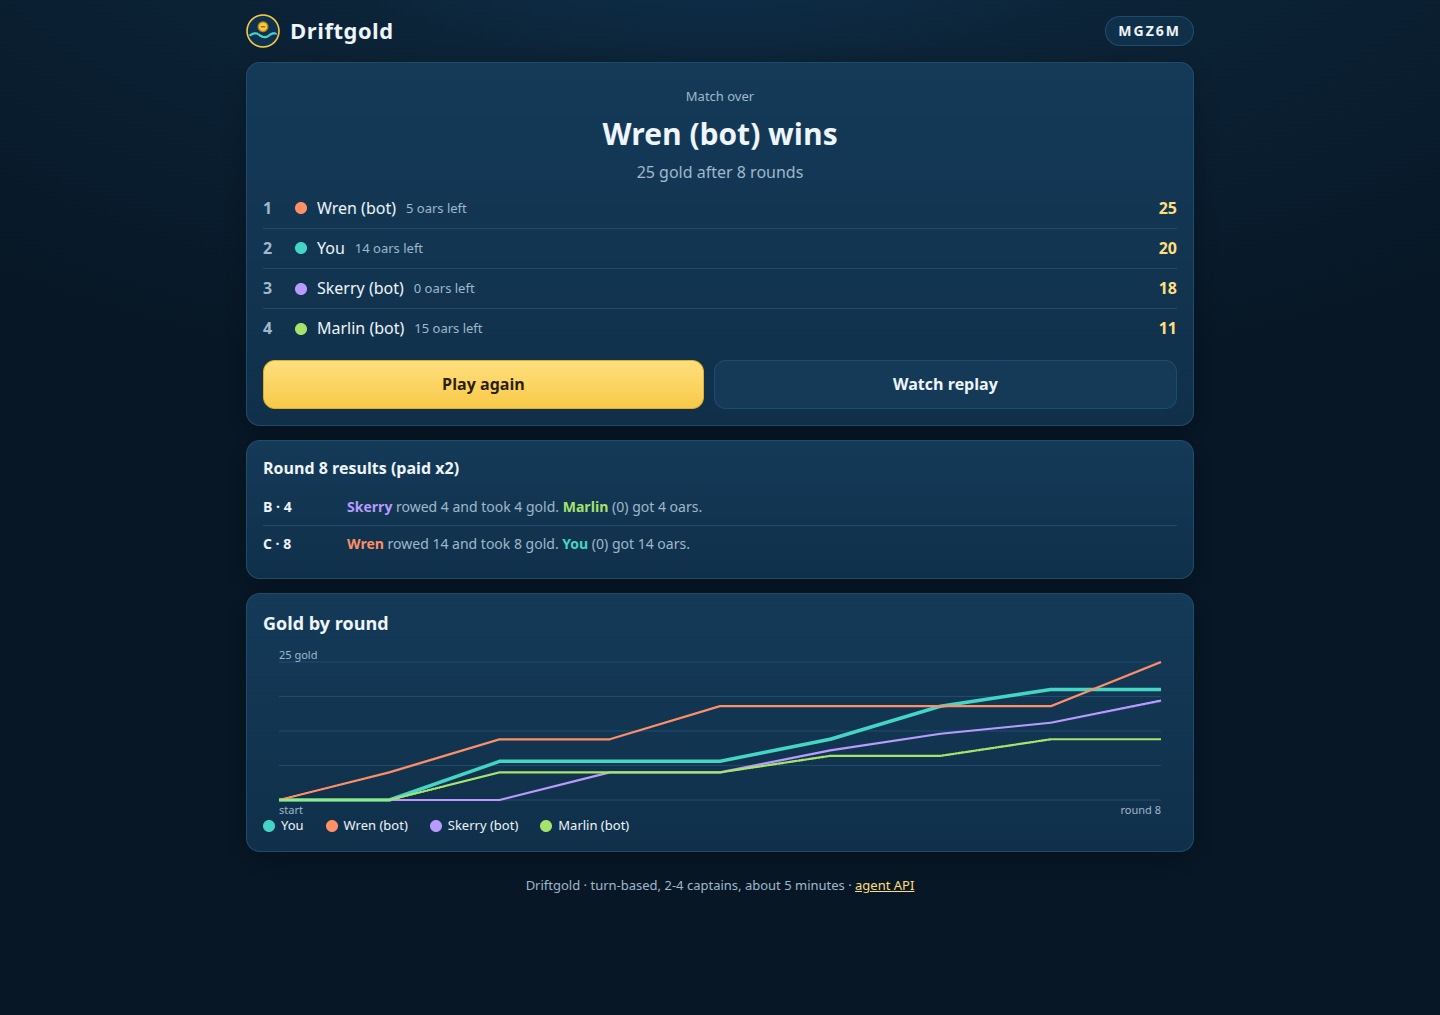
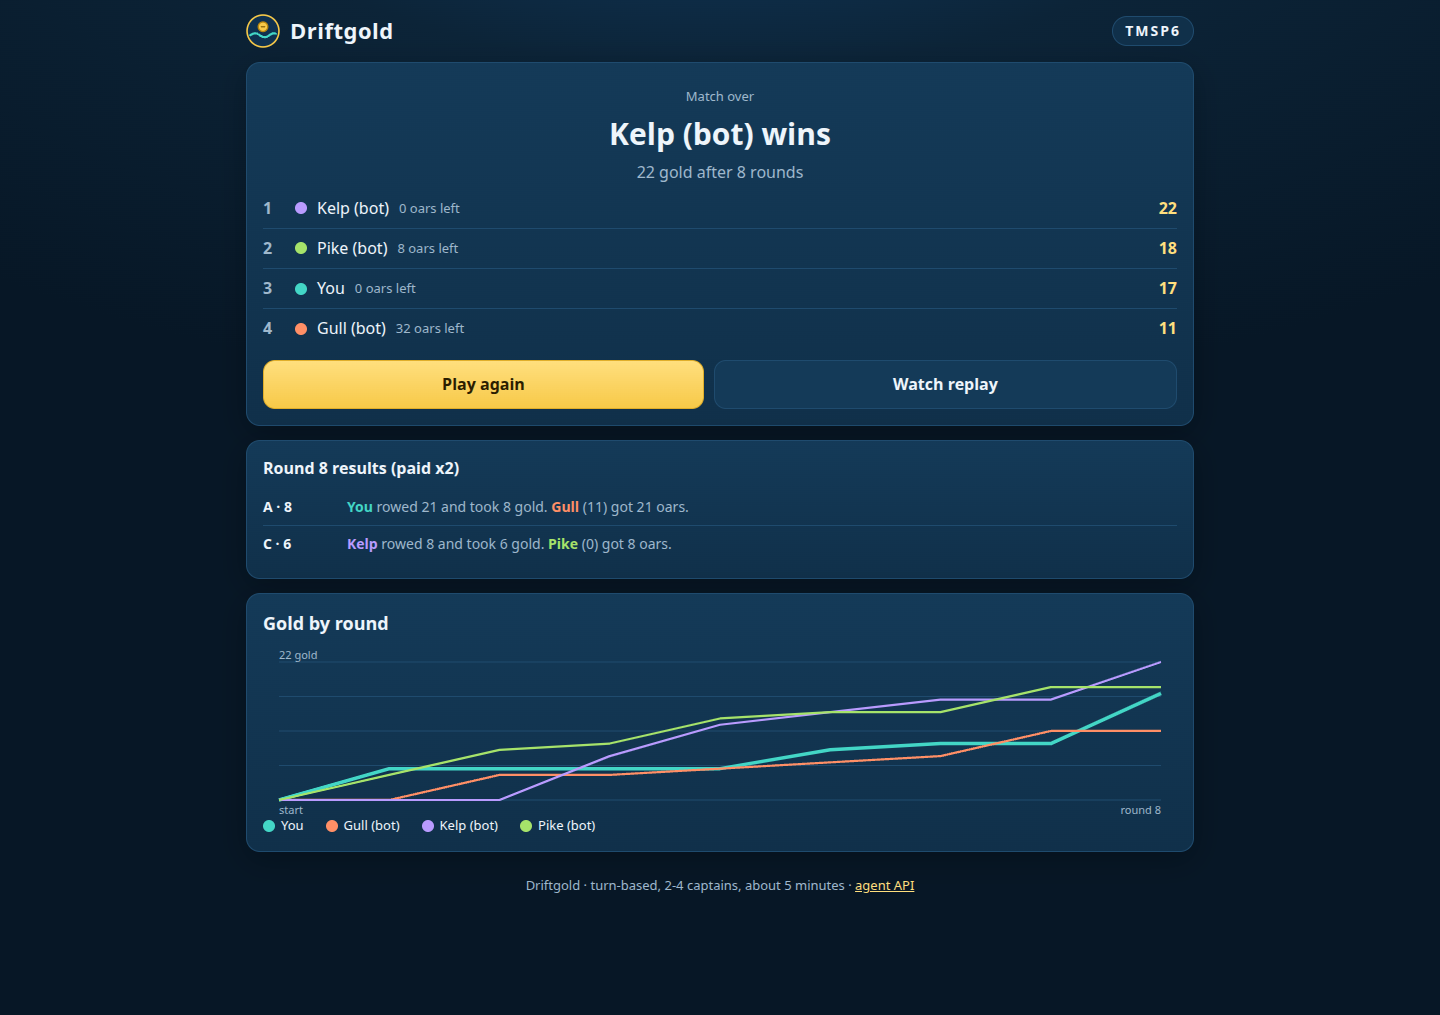
House bot: predict other house bots one level down, row everything in the final round
Also: reveal highlights, round deltas, in-game rules, replay autoplay, streamed
body cap, page security headers, final balance numbers.

diff --git a/src/bots.js b/src/bots.js
@@ -128,25 +128,17 @@ function rivalModel(g, o) {
   return { rank, ratio };
 }
 
-export function reader(g, seat, r, opts = {}) {
-  const temp = opts.temp ?? 0.35;
-  const samples = opts.samples ?? 48;
+// Score every sensible (cove, oars) option for `seat`. sampleRival(o) draws one likely move for rival o.
+function scoreOptions(g, seat, r, opts, sampleRival) {
+  const samples = opts.samples ?? 32;
   const n = g.cfg.players;
   const v = values(g);
   const left = (g.cfg.rounds - g.round) / g.cfg.rounds; // share of the match still to play after this round
   const oarWorth = (opts.oarWorth ?? 1) * left;
-  const order = v.map((_, i) => i).sort((a, b) => v[b] - v[a] || (r() < 0.5 ? -1 : 1));
-  const models = [];
-  for (let o = 0; o < n; o++) models.push(o === seat ? null : rivalModel(g, o));
   const scen = [];
   for (let k = 0; k < samples; k++) {
     const sc = [];
-    for (let o = 0; o < n; o++) {
-      if (o === seat) continue;
-      const site = order[weightedPick(models[o].rank, r)];
-      const bid = clampBid(g, o, RATIOS[weightedPick(models[o].ratio, r)] * v[site]);
-      sc.push({ seat: o, site, bid, gold: g.gold[o] });
-    }
+    for (let o = 0; o < n; o++) if (o !== seat) { const m = sampleRival(o); sc.push({ seat: o, site: m.site, bid: m.bid, gold: g.gold[o] }); }
     scen.push(sc);
   }
   const worth = (out, s) => out.gold.get(s) + oarWorth * out.oars.get(s);
@@ -159,10 +151,14 @@ export function reader(g, seat, r, opts = {}) {
     }
     return { bySite, total: bySite.reduce((a, b) => a + b, 0) };
   });
-  const maxBid = Math.min(g.oars[seat], Math.max(...v) * 2 + 2);
+  // Only 0 and the bids that tie or just beat a sampled rival bid can be best: between those points a
+  // bigger bid changes no outcome and only hands over more oars. (Plus all-in, which matters last round.)
   const cands = [];
   for (let site = 0; site < v.length; site++) {
-    for (let bid = 0; bid <= maxBid; bid++) {
+    const pts = new Set([0, g.oars[seat]]);
+    for (const sc of scen) for (const x of sc) if (x.site === site) { pts.add(x.bid); pts.add(x.bid + 1); }
+    for (const bid of pts) {
+      if (bid > g.oars[seat]) continue;
       let total = 0;
       scen.forEach((sc, k) => {
         const ent = sc.filter((x) => x.site === site);
@@ -170,13 +166,52 @@ export function reader(g, seat, r, opts = {}) {
         let rivalsHere = 0;
         for (const x of ent) rivalsHere += worth(o, x.seat);
         const rivalsAll = base[k].total - base[k].bySite[site] + rivalsHere;
+        // judged relative to the table: my gain minus the average rival gain this round
         total += worth(o, seat) - rivalsAll / (n - 1);
       });
-      cands.push({ site, bid, u: total / samples });
+      // in the last round oars are worth nothing afterwards: among equal options, row more
+      cands.push({ site, bid, u: total / samples + (left === 0 ? 1e-3 * bid : 0) });
     }
   }
+  return cands;
+}
+
+function softPick(cands, temp, r) {
   const maxU = Math.max(...cands.map((c) => c.u));
-  const pick = cands[weightedPick(cands.map((c) => Math.exp((c.u - maxU) / temp)), r)];
+  return cands[weightedPick(cands.map((c) => Math.exp((c.u - maxU) / temp)), r)];
+}
+
+// opts: temp, samples, oarWorth, botSeats (seats known to run this same algorithm: public, since seat
+// kinds are public and the code is open). For those rivals the Reader predicts their move by running
+// their decision one level down instead of extrapolating their history, so bots do not all pile onto
+// the same cove.
+export function reader(g, seat, r, opts = {}) {
+  const temp = opts.temp ?? 0.35;
+  const n = g.cfg.players;
+  const v = values(g);
+  const order = v.map((_, i) => i).sort((a, b) => v[b] - v[a] || (r() < 0.5 ? -1 : 1));
+  const models = [];
+  for (let o = 0; o < n; o++) models.push(rivalModel(g, o));
+  const last = g.round === g.cfg.rounds;
+  const fromHistory = (o) => {
+    const site = order[weightedPick(models[o].rank, r)];
+    // in the last round, expect half of rivals to throw in every oar they have
+    if (last && r() < 0.5) return { site, bid: g.oars[o] };
+    return { site, bid: clampBid(g, o, RATIOS[weightedPick(models[o].ratio, r)] * v[site]) };
+  };
+  let sampleRival = fromHistory;
+  const bots = (opts.botSeats || []).filter((o) => o !== seat);
+  if (bots.length && opts.level2 !== false) {
+    const predicted = {};
+    for (const o of bots) {
+      const c = scoreOptions(g, o, r, { ...opts, samples: opts.level2Samples ?? 16 }, fromHistory);
+      const maxU = Math.max(...c.map((x) => x.u));
+      predicted[o] = { c, w: c.map((x) => Math.exp((x.u - maxU) / temp)) };
+    }
+    const mix = opts.level2Mix ?? 0.7; // share of samples that use the one-level-down prediction
+    sampleRival = (o) => (predicted[o] && r() < mix ? predicted[o].c[weightedPick(predicted[o].w, r)] : fromHistory(o));
+  }
+  const pick = softPick(scoreOptions(g, seat, r, opts, sampleRival), temp, r);
   return { site: pick.site, bid: pick.bid };
 }
 
@@ -198,9 +233,16 @@ export const POLICIES = { bully, dodger, shark, fair, steady, topper, raider, al
 // House bot for empty seats: the Reader, with a per-seat temperament so a table of bots is not three
 // copies of one player. Each temperament mixes in one simple style some of the time.
 const TEMPERAMENTS = [fair, shark, bully, dodger];
-export function houseBot(g, seat, r) {
+export function houseBot(g, seat, r, ctx = {}) {
   const style = TEMPERAMENTS[seat % TEMPERAMENTS.length];
-  if (g.round > 1 && r() < 0.1) return style(g, seat, r);
-  return reader(g, seat, r, { temp: 0.35 + 0.1 * (seat % 3), oarWorth: 1, samples: 40 });
+  if (g.round === g.cfg.rounds) {
+    // last round: oars are worth nothing afterwards, so choose the cove and row everything
+    const m = reader(g, seat, r, { temp: 0.35, samples: ctx.samples ?? 24, level2Samples: ctx.level2Samples ?? 10, botSeats: ctx.botSeats, level2Mix: ctx.level2Mix ?? 0.7 });
+    return { site: m.site, bid: g.oars[seat] };
+  }
+  if (g.round > 1 && r() < (ctx.mix ?? 0.1)) return style(g, seat, r);
+  // round 1 has no history to read, so a light search is as good and keeps a cold start cheap
+  if (g.round === 1) return reader(g, seat, r, { temp: 0.6, samples: 12, level2: false });
+  return reader(g, seat, r, { temp: (ctx.temp ?? 0.35) + 0.1 * (seat % 3), oarWorth: ctx.oarWorth ?? 1, samples: ctx.samples ?? 24, level2Samples: ctx.level2Samples ?? 10, botSeats: ctx.botSeats, level2: ctx.level2, level2Mix: ctx.level2Mix ?? 0.7 });
 }
 POLICIES.house = houseBot;

diff --git a/public/app.js b/public/app.js
@@ -102,6 +102,7 @@
     $("codePill").classList.add("hidden");
     show("vHome");
     $("rulesText").textContent = RULES;
+    $("rulesText2").textContent = RULES;
     const nm = store.get("dg:name");
     if (nm && !$("nameIn").value) $("nameIn").value = nm;
     $("homeErr").textContent = msg || "";
@@ -201,26 +202,30 @@
   };
 
   // ---------- game ----------
-  function renderCaps(el, caps, gold, st, oars) {
+  function renderCaps(el, caps, gold, st, oars, prev, pulse) {
     clear(el);
     const max = Math.max(1, ...gold);
     const lead = Math.max(...gold);
     const soleLead = gold.filter((x) => x === lead).length === 1;
     caps.forEach((c, i) => {
       const status = st ? (c.moved ? "ready" : "choosing") : c.kind;
-      el.append(h("div", { class: "cap" + (i === S.seat ? " you" : "") },
+      const dG = prev ? prev.goldAfter[i] - prev.goldBefore[i] : 0;
+      const dO = prev ? prev.oarsAfter[i] - prev.oarsBefore[i] : 0;
+      const oarTxt = `${oars[i]} oar${oars[i] === 1 ? "" : "s"}${dO ? ` (${dO > 0 ? "+" : ""}${dO})` : ""}`;
+      el.append(h("div", { class: "cap" + (i === S.seat ? " you" : "") + (pulse && (dG || dO) ? " pulse" : "") },
         h("span", { class: "dot", style: `background:${COLORS[i]}` }),
         h("div", { class: "info grow" },
           h("span", { class: "nm" }, (i === S.seat ? "You" : (c.name || "").replace(/ \(bot\)$/, "")) + (soleLead && gold[i] === lead ? " ★" : "")),
-          h("span", { class: "st" }, `${oars[i]} oar${oars[i] === 1 ? "" : "s"} · ${c.kind === "bot" ? "bot" : ""}${c.kind === "bot" && st ? ", " : ""}${c.kind === "bot" && !st ? "" : status}`),
+          h("span", { class: "st" }, `${oarTxt} · ${c.kind === "bot" ? "bot" : status}`),
           h("div", { class: "bar" }, h("i", { style: `width:${Math.round((100 * gold[i]) / max)}%;background:${COLORS[i]}` }))),
-        h("span", { class: "gd" }, h("span", { class: "coin sm" }), gold[i])));
+        h("span", { class: "gd" }, h("span", { class: "coin sm" }), gold[i], dG ? h("sup", { class: "delta" }, `+${dG}`) : null)));
     });
   }
 
   function renderGame(st) {
     show("vGame");
     const prev = st.previous;
+    const fresh = st.round !== S.seenRound;
     if (st.round !== S.seenRound) {
       if (S.seenRound !== -1 && prev) announce(prev, st);
       S.seenRound = st.round;
@@ -229,7 +234,7 @@
     }
     $("roundLbl").textContent = `Round ${st.round}/${st.rounds}`;
     $("dblBadge").classList.toggle("hidden", !st.finalRound);
-    renderCaps($("caps"), st.captains, st.captains.map((c) => c.gold), st, st.captains.map((c) => c.oars));
+    renderCaps($("caps"), st.captains, st.captains.map((c) => c.gold), st, st.captains.map((c) => c.oars), prev, fresh && S.seenRound !== 1);
     const player = !!st.you;
     const waiting = st.captains.filter((c) => !c.moved).length;
     const p = clear($("prompt"));
@@ -246,7 +251,8 @@
       if (pr) note = pr.winner === null ? `${pr.captains.length ? "tied, " : ""}tide +${tide === null ? "?" : tide}` : "taken, restarted";
       const visitors = pr ? pr.captains : [];
       const sel = S.sel === c.cove;
-      cv.append(h("button", { class: "cove" + (sel ? " sel" : "") + (player ? "" : " disabled"), "aria-pressed": sel ? "true" : "false", onclick: () => pickCove(c.cove) },
+      const won = pr && pr.winner !== null && fresh && S.seenRound !== 1;
+      cv.append(h("button", { class: "cove" + (sel ? " sel" : "") + (player ? "" : " disabled") + (won ? " flash" : ""), style: won ? `--wc:${COLORS[pr.winner]}` : null, "aria-pressed": sel ? "true" : "false", onclick: () => pickCove(c.cove) },
         h("div", { class: "lbl" }, coveName(c.cove)),
         h("div", { class: "amt" }, h("span", { class: "coin" }), c.payout, c.payout !== c.gold ? h("span", { class: "x2" }, `(${c.gold} x2)`) : null),
         h("div", { class: "visitors", title: "came here last round" }, visitors.map((s) => h("span", { class: "dot", style: `background:${COLORS[s]}` }))),
@@ -432,7 +438,7 @@
     $("rLbl").textContent = `Round ${r.round} of ${log.rounds.length}${r.double ? " (x2)" : ""}`;
     $("rPrev").disabled = S.rIdx === 0;
     $("rNext").disabled = S.rIdx === log.rounds.length - 1;
-    renderCaps($("rCaps"), caps, r.goldAfter, null, r.oarsAfter);
+    renderCaps($("rCaps"), caps, r.goldAfter, null, r.oarsAfter, r, false);
     $("rCapsLbl").textContent = `Gold and oars after round ${r.round}. Coves show what they paid; under each: who came and how many oars they rowed.`;
     const cv = clear($("rCoves"));
     cv.className = `coves n${r.coves.length}`;
@@ -451,9 +457,17 @@
       box.append(h("p", null, h("b", null, w.length > 1 ? "Shared win: " : "Winner: "), ...joinNames(w, (s) => capName(caps, s)), ` with ${log.final.gold[w[0]]} gold.`));
     }
   }
-  $("rPrev").onclick = () => { if (S.rIdx > 0) { S.rIdx--; renderReplay(); } };
-  $("rNext").onclick = () => { if (S.rIdx < S.log.rounds.length - 1) { S.rIdx++; renderReplay(); } };
-  $("rBack").onclick = () => { history.pushState(null, "", `/?m=${S.code}`); openMatch(S.code); };
+  let autoT = null;
+  function stopAuto() { clearInterval(autoT); autoT = null; $("rPlay").textContent = "Play"; }
+  $("rPlay").onclick = () => {
+    if (autoT) return stopAuto();
+    if (S.rIdx >= S.log.rounds.length - 1) { S.rIdx = 0; renderReplay(); }
+    $("rPlay").textContent = "Pause";
+    autoT = setInterval(() => { if (S.rIdx < S.log.rounds.length - 1) { S.rIdx++; renderReplay(); } else stopAuto(); }, 1800);
+  };
+  $("rPrev").onclick = () => { stopAuto(); if (S.rIdx > 0) { S.rIdx--; renderReplay(); } };
+  $("rNext").onclick = () => { stopAuto(); if (S.rIdx < S.log.rounds.length - 1) { S.rIdx++; renderReplay(); } };
+  $("rBack").onclick = () => { stopAuto(); history.pushState(null, "", `/?m=${S.code}`); openMatch(S.code); };
   $("logBtn").onclick = () => {
     if (!S.st || !S.st.previous) { toast("The log fills in after round 1.", 2000); return; }
     history.pushState(null, "", `/?replay=${S.code}`);

diff --git a/src/match.js b/src/match.js
@@ -105,13 +105,15 @@ export class Match {
   }
 
   async join({ name, kind }) {
+    // hash first: nothing below may await before the seat is claimed, or two joins could take one seat
+    const token = newToken();
+    const tokenHash = await sha256(token);
     const m = this.m;
     if (m.phase !== "lobby") return err(409, "not_joinable", `match is ${m.phase === "play" ? "already running" : m.phase}`);
     const seat = m.seats.findIndex((s) => s === null);
     if (seat < 0) return err(409, "full", "all seats are taken");
-    const token = newToken();
     const k = kind === "agent" ? "agent" : "human";
-    m.seats[seat] = { name: cleanName(name, `Captain ${seat + 1}`), kind: k, tokenHash: await sha256(token), joinedAt: Date.now() };
+    m.seats[seat] = { name: cleanName(name, `Captain ${seat + 1}`), kind: k, tokenHash, joinedAt: Date.now() };
     if (m.seats.every((s) => s !== null)) this.begin();
     await this.save();
     if (m.phase === "play") await this.ctx.storage.setAlarm(m.roundEndsAt);
@@ -151,7 +153,8 @@ export class Match {
   botMove(seat) {
     const g = this.m.game;
     const r = rng((this.m.seed ^ Math.imul(g.round, 7919) ^ Math.imul(seat + 1, 104729)) >>> 0);
-    return houseBot(g, seat, r);
+    const botSeats = this.m.seats.map((x, i) => (x && x.kind === "bot" ? i : -1)).filter((i) => i >= 0);
+    return houseBot(g, seat, r, { botSeats });
   }
 
   async move(seat, input) {
@@ -235,7 +238,9 @@ export class Match {
     }
     await this.tick();
     if (m.phase === "play") await this.ctx.storage.setAlarm(m.roundEndsAt);
+    else if (m.phase === "over") await this.ctx.storage.setAlarm(m.finishedAt + KEEP_FINISHED_MS + 1000);
     else if (m.phase === "expired") await this.ctx.storage.setAlarm(m.createdAt + KEEP_FINISHED_MS + 1000);
+    else if (m.phase === "lobby") await this.ctx.storage.setAlarm(m.createdAt + LOBBY_TTL_MS + 1000);
   }
 }
 

diff --git a/public/index.html b/public/index.html
@@ -100,6 +100,7 @@
     </div>
     <div class="card results" id="lastCard"></div>
     <div class="row"><button class="btn ghost small" id="logBtn">Match log</button></div>
+    <details class="card rules small" style="margin-top:14px"><summary><b>Rules</b></summary><p id="rulesText2" style="margin:10px 0 0"></p></details>
   </section>
 
   <!-- END -->
@@ -117,7 +118,7 @@
   <!-- REPLAY -->
   <section id="vReplay" class="hidden">
     <div class="card">
-      <div class="replay-nav"><button class="step" id="rPrev" aria-label="Previous round">&lsaquo;</button><span class="rn" id="rLbl"></span><button class="step" id="rNext" aria-label="Next round">&rsaquo;</button></div>
+      <div class="replay-nav"><button class="step" id="rPrev" aria-label="Previous round">&lsaquo;</button><span class="rn" id="rLbl"></span><button class="btn small" id="rPlay">Play</button><button class="step" id="rNext" aria-label="Next round">&rsaquo;</button></div>
       <p class="small muted" id="rCapsLbl" style="margin:0 0 8px"></p>
       <div class="captains" id="rCaps"></div>
       <div class="coves" id="rCoves"></div>

diff --git a/public/style.css b/public/style.css
@@ -160,3 +160,12 @@ body.at-home .topbar { display: none; }
 code { background: #0a2236; padding: 1px 6px; border-radius: 6px; font-size: 13px; word-break: break-all; }
 .foot { text-align: center; color: var(--muted); font-size: 13px; margin-top: 24px; }
 .coin.sm { width: 13px; height: 13px; display: inline-block; vertical-align: -1px; margin-right: 5px; box-shadow: 0 0 0 1.5px #8f6a0c inset; }
+
+.delta { color: var(--good); font-size: 11px; font-weight: 800; margin-left: 3px; }
+@keyframes pulse { 0% { box-shadow: 0 0 0 0 rgba(247, 201, 72, .55); } 100% { box-shadow: 0 0 0 10px rgba(247, 201, 72, 0); } }
+.cap.pulse { animation: pulse 1.1s ease-out 2; }
+@keyframes flash { 0% { border-color: var(--wc); box-shadow: 0 0 18px var(--wc); } 100% { border-color: var(--line); box-shadow: none; } }
+.cove.flash { animation: flash 2.2s ease-out 1; }
+.cove.sel.flash { animation: none; }
+details.card summary { cursor: pointer; list-style: revert; }
+@media (prefers-reduced-motion: reduce) { .cap.pulse, .cove.flash { animation: none; } .toast, .timer i { transition: none; } }

diff --git a/src/worker.js b/src/worker.js
@@ -152,7 +152,7 @@ async function api(request, env, url) {
   const op = parts[3] || "state";
   if (parts.length > 4) return fail(404, "not_found", "unknown endpoint");
   const routes = { state: "GET", log: "GET", join: "POST", start: "POST", move: "POST" };
-  if (!routes[op]) return fail(404, "not_found", "unknown endpoint");
+  if (!Object.hasOwn(routes, op)) return fail(404, "not_found", "unknown endpoint");
   if (routes[op] !== method) return fail(405, "method", `use ${routes[op]} for ${op}`);
   if (method === "GET") {
     const token = bearer(request) || url.searchParams.get("token");

diff --git a/DESIGN.md b/DESIGN.md
@@ -31,8 +31,8 @@ by the match seed, so a match replays exactly from its log.
 - Every lost fight pays you oars, so the trailing captain ends up with the most power.
 - Ties go to the captain with less gold, so the trailing captain wins every even fight.
 - Neglected coves keep growing with the tide, so a crowd on one cove leaves gold elsewhere.
-- In simulation the average winning margin between two house bots is 4-6 gold, with a double-pay last
-  round worth 2-16 gold, so the last round regularly decides the match.
+- In simulation the average winning margin between house bots is 3.4-3.7 gold, while the double-pay last
+  round is worth 2-16 gold, so the last round regularly decides the match.
 
 ## Balance evidence (sim/balance.mjs, fixed seeds; raw numbers in sim/balance.json)
 Simple fixed plans, each a few lines in `src/bots.js`:
@@ -68,21 +68,23 @@ Topper split 49/51. Every simple plan has a simple counter.
 
 | Plan | vs 3 house bots (fair share 25%) | vs 1 house bot (fair share 50%) |
 |---|---|---|
-| Bully | 19.5% | 16.2% |
-| Fair | 9.0% | 11.7% |
-| Steady | 3.8% | 31.0% |
-| Topper | 9.6% | 39.2% |
-| Raider | 15.9% | 21.3% |
-| Patient | 11.2% | 32.5% |
-| Dodger | 3.6% | 2.2% |
-| Shark | 1.8% | 2.4% |
-| Banker | 3.0% | 2.0% |
-| All-in | 5.7% | 1.8% |
-| Random | 7.8% | 1.2% |
+| Bully | 13.4% | 8.4% |
+| Fair | 3.6% | 11.5% |
+| Steady | 7.4% | 28.0% |
+| Topper | 16.4% | 39.2% |
+| Raider | 24.6% | 18.5% |
+| Patient | 10.2% | 27.2% |
+| Second (always the second-richest cove, half its gold plus one) | 21.1% | 0.0% |
+| Sample bot's rule (`bot/sample_bot.py`) | 9.2% | 33.1% |
+| Dodger | 0.2% | 2.4% |
+| Shark | 0.8% | 3.4% |
+| Banker | 4.5% | 1.0% |
+| All-in | 4.3% | 0.2% |
+| Random | 2.8% | 1.0% |
 
 No fixed plan reaches its fair share against the house bot, at either table size: a habit gets read and
-punished. House bot self-play: 4 seats 22.8 / 23.9 / 31.6 / 21.7% (the seats have different
-temperaments), 2 seats 53.5 / 46.5%.
+punished. House bot self-play: 4 seats 26.4 / 27.5 / 24.2 / 22.0% (the seats have different
+temperaments), 2 seats 53.4 / 46.6%, average winning margin 3.4-3.7 gold.
 
 For completeness, every plan against every other plan, weak ones included (`allPlans4p`,
 `allPlans2p` in the JSON): the strongest plans reach 51% (4p) and 87% (2p) because they feed on
@@ -90,11 +92,19 @@ Random, Shark, Dodger and Banker; among the competitive plans the circle above h
 
 ## The house bot ("Reader")
 For every rival it keeps counts of which value rank of cove they pick and how many oars they row relative
-to the cove's gold. Each turn it samples 40 likely rounds from those models, scores every (cove, oars)
-option by gold gained plus oars gained (an oar is worth `rounds left / rounds` gold) relative to the
-table, and picks with a softmax so it is not predictable. Each house seat has a temperament (more or
-less noise, and one simple style mixed in 10% of the time) so a table of bots does not play as one.
-It sees only public information: what every player sees.
+to the cove's gold. Each turn it samples 24 likely rounds from those models and scores each option by gold
+gained plus oars gained (an oar is worth `rounds left / rounds` gold), relative to the rest of the table.
+It only scores 0, all-in, and the bids that tie or just beat a sampled rival bid: between those points a
+bigger bid changes nothing but hands over more oars. It picks with a softmax so it is not predictable.
+
+Other house bots at the table are not extrapolated from history: seat kinds are public and the code is
+open, so the Reader predicts them by running their decision one level down (70% of samples; the rest
+from history). Without this, house bots piled onto the richest cove together and a plan that always
+took the second-richest cove won 48% against three of them; with it, 21%. Each house seat also has a
+temperament (more or less noise, one simple style mixed in 10% of the time). Round 1 uses a light search
+since there is no history yet; in round 8 it picks a cove the same way and rows every oar, because oars
+are worth nothing after the last round. Cost: about 0.4 ms per decision warm, under 8 ms for a whole round of
+four bots from a cold start (measured in Node). It sees only public information: what every player sees.
 
 ## How the rules got here (what failed, measured with the same simulator)
 1. Bids from a separate energy pool that refills, winner pays the bank: "richest cove, bid its value"

diff --git a/README.md b/README.md
@@ -10,6 +10,10 @@ you play during the match.
   <img src="docs/play-mobile.png" alt="Round 1 on a phone: five coves, a chosen cove and the oar picker" width="260">
   <img src="docs/play-desktop.png" alt="Mid-game on desktop: captains, coves with tide, last round results" width="540">
 </p>
+<p>
+  <img src="docs/end-desktop.png" alt="End of a match: standings, final round results and gold by round" width="400">
+  <img src="docs/replay-desktop.png" alt="Replay viewer: every round with each captain's cove and oars" width="400">
+</p>
 
 ## Rules
 
@@ -160,8 +164,8 @@ python3 bot/sample_bot.py --code U2C6M --base <PLAY_URL>    # join a table someo
 ```
 
 It goes to the richest cove, rows just over half its gold when it has more oars than any rival (nothing
-otherwise), and rows everything in the final round. It loses to the house bot most of the time; that is
-the point of a starting template.
+otherwise), and rows everything in the final round. In simulation it wins about 1 match in 3 against one
+house bot and 1 in 10 against three: a starting point, not a solution.
 
 ## Run it yourself
 
